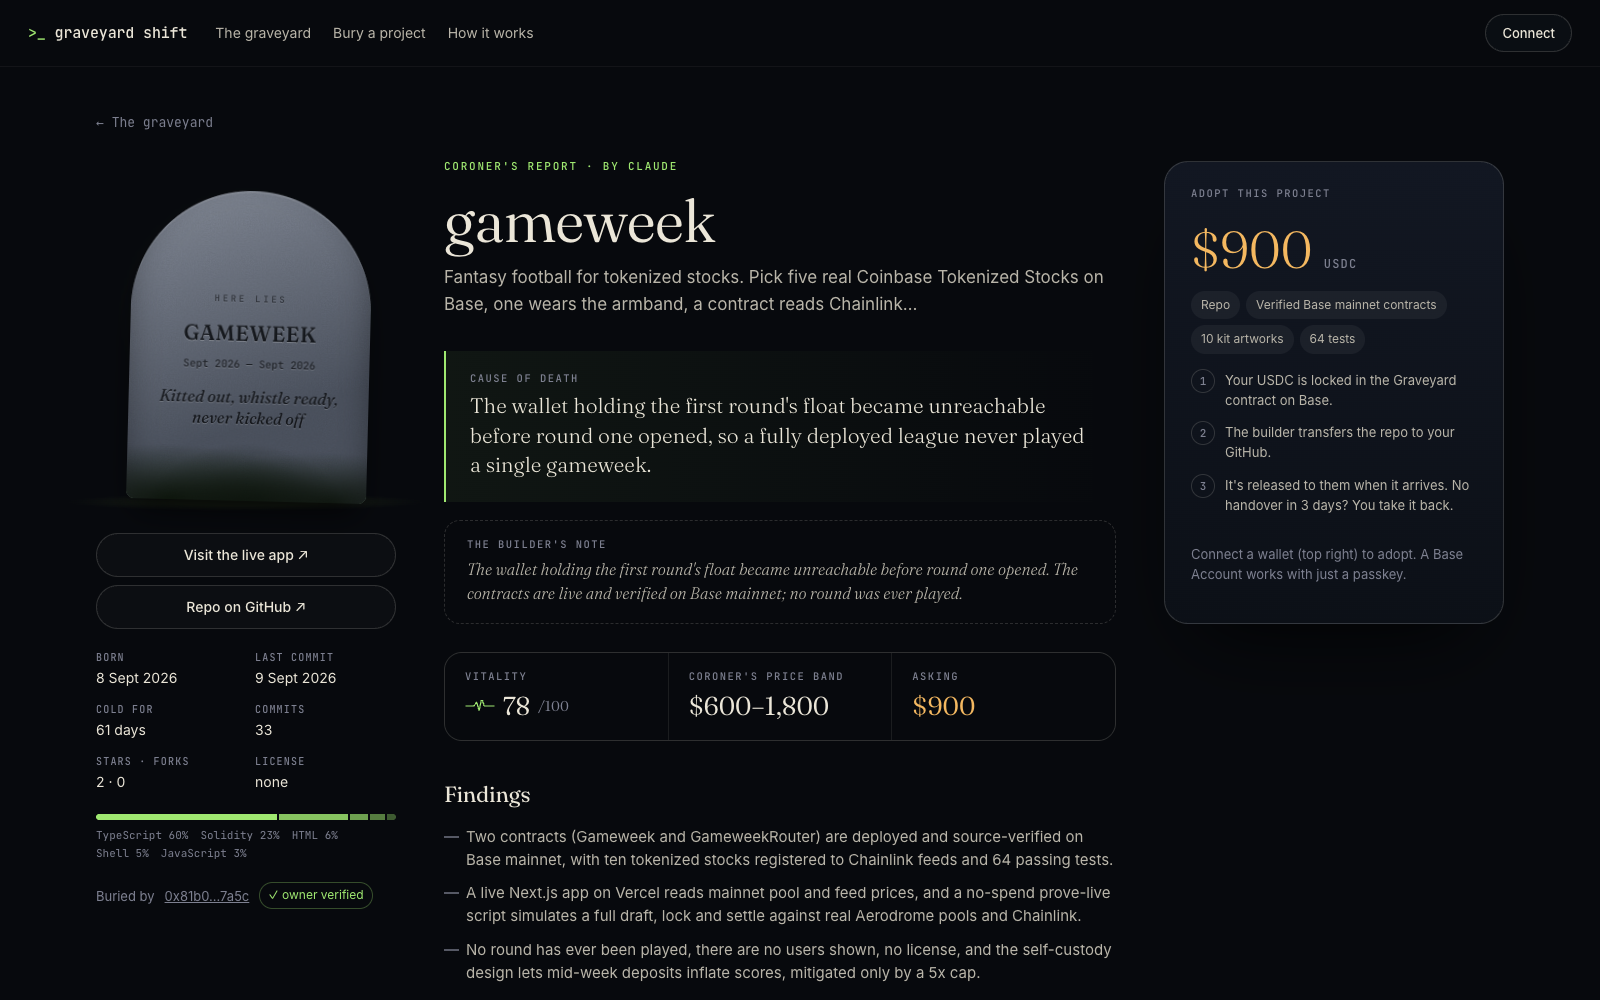
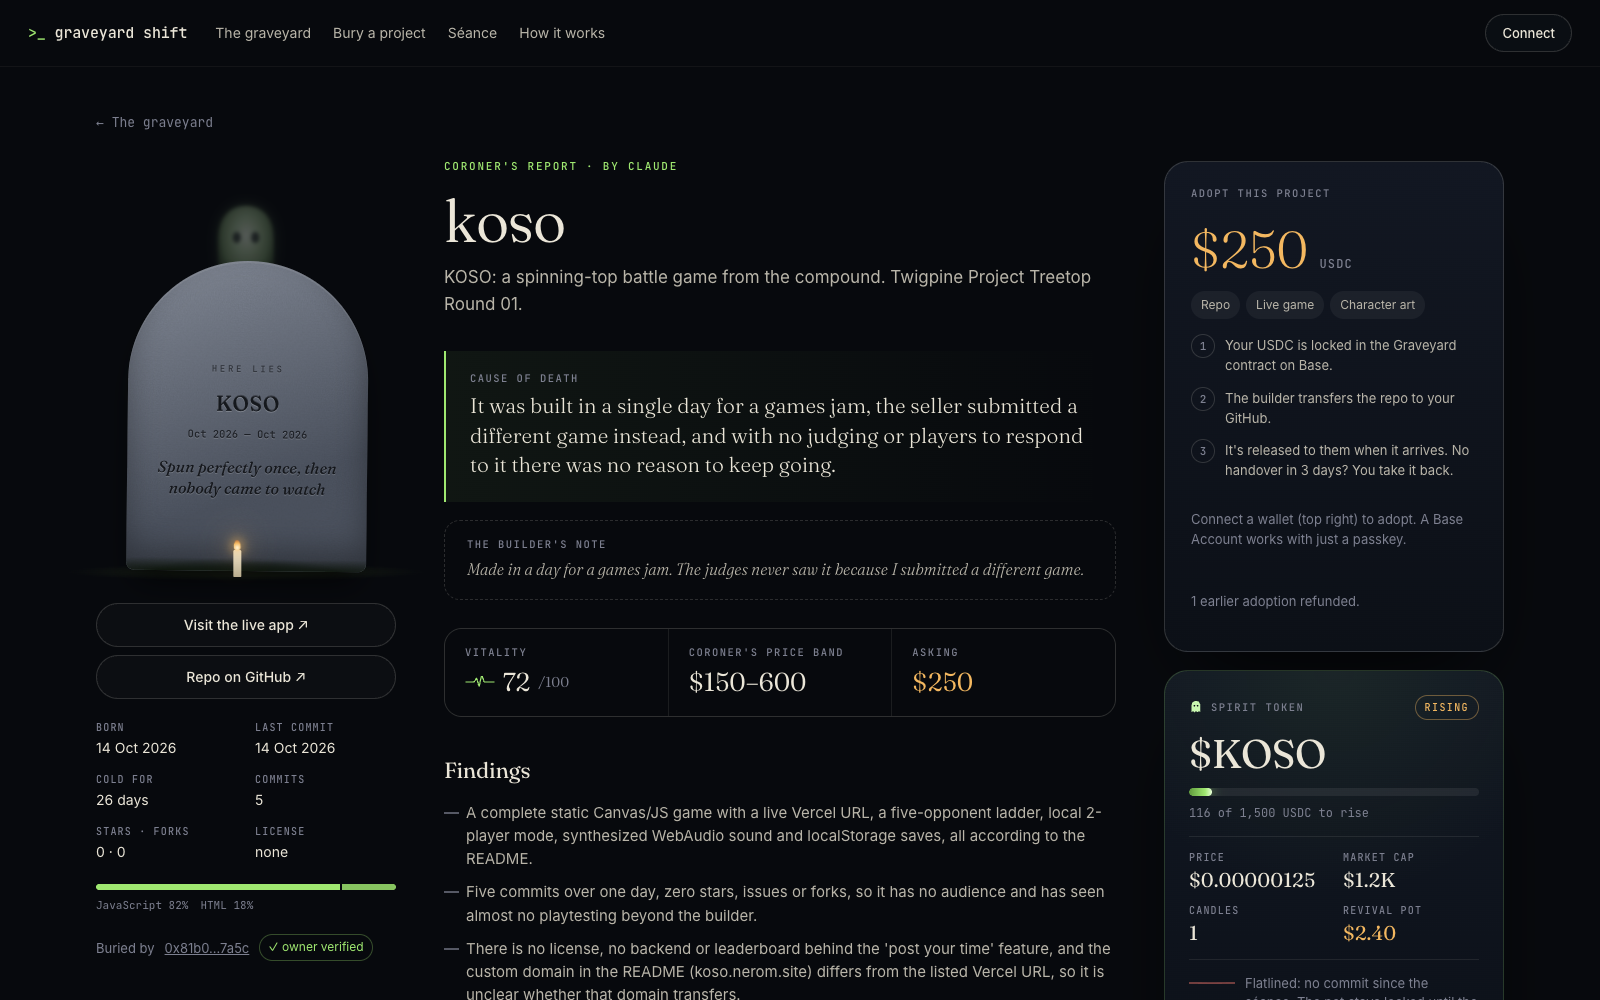
Séance docs, mobile overflow fixes, fresh screenshots

diff --git a/web/src/styles.css b/web/src/styles.css
@@ -304,7 +304,10 @@ em { font-style: italic; color: var(--moss); }
   .stat, .stat:first-child { padding: 20px; border-left: 0; border-top: 1px solid var(--line); }
   .plots, .how, .log, .page { padding-left: 20px; padding-right: 20px; }
   .how ol { grid-template-columns: 1fr; }
-  .plot-layout { grid-template-columns: 1fr; gap: 30px; }
+  .plot-layout { grid-template-columns: minmax(0, 1fr); gap: 30px; }
+  .plot-right, .plot-aside, .plot-left { min-width: 0; }
+  .wallet .bal { display: none; }
+  .seance-head h1 { font-size: 40px; }
   .plot-left { position: static; }
   .salvage { grid-template-columns: 1fr; }
   .vital { grid-template-columns: 1fr 1fr; }
@@ -412,3 +415,4 @@ em { font-style: italic; color: var(--moss); }
   .rules { grid-template-columns: 1fr; margin: 36px 0 46px; }
   .spirit-grid { grid-template-columns: 1fr; }
 }
+main { overflow-x: clip; }

diff --git a/README.md b/README.md
@@ -2,15 +2,21 @@
 
 **Every builder has a graveyard. Now it has a night shift.**
 
-Graveyard Shift is a marketplace for side projects their builders stopped shipping. You bury a project you've stopped
-working on. Someone who still believes in it adopts it: the repo, the live app, whatever else you include. Their USDC
-waits in an escrow contract on Base, and it reaches you when the repo lands in their GitHub account.
+Graveyard Shift is a marketplace and a launchpad for side projects their builders stopped shipping. You bury a project
+you've stopped working on. Someone who still believes in it adopts it: the repo, the live app, whatever else you include.
+Their USDC waits in an escrow contract on Base, and it reaches you when the repo lands in their GitHub account.
+
+Or you hold a **séance**: raise the dead project as a token on a bonding curve. Believers light candles (buy). The
+founder gets no tokens. Instead 2% of every trade fills a revival pot that the founder can claim only while the repo has
+a heartbeat, meaning a commit in the last 30 days, which our keeper reads from GitHub and writes on-chain. Founders get
+paid for shipping, not for launching.
 
 Live: **https://graveyard.nerom.site** · Built for Vibeathon 02 (Night Shift) on Vibestarter.
 
 Contracts on Base Sepolia (source verified on Sourcify):
 - Graveyard escrow: [`0x74d0C081C24A22e1170dd357a00a9dA25cD335d8`](https://sepolia.basescan.org/address/0x74d0C081C24A22e1170dd357a00a9dA25cD335d8)
 - gUSDC test token: [`0x56B5fA16b3f32DcaE2980e17fc967e163409cFca`](https://sepolia.basescan.org/address/0x56B5fA16b3f32DcaE2980e17fc967e163409cFca)
+- Séance launchpad: [`0x750d7855Cd4e59bb8909F43eC18AB7FcC13347FA`](https://sepolia.basescan.org/address/0x750d7855Cd4e59bb8909F43eC18AB7FcC13347FA)
 
 ## What to try
 
@@ -23,7 +29,10 @@ Contracts on Base Sepolia (source verified on Sourcify):
    three-step revival plan, who should adopt it, and a fair price band next to the asking price.
 3. **Bury a project.** Paste any public GitHub repo. Claude reads the repo facts, the README and the commit history, and
    writes the autopsy live, in about 10 seconds. Set your price and sign one message (no gas) to list it.
-4. **Adopt one.** Connect a wallet. A Base Account works with just a passkey, and approval plus adoption go through as
+4. **Light a candle.** Open the Séance and pick a raised spirit ($KOSO, $GWEEK…). Buy on the curve and a candle
+   appears at the foot of its headstone, one per holder. The ghost over the stone takes shape as the curve fills toward
+   1,500 USDC, when the project rises. The panel shows the revival pot and whether the repo has a heartbeat.
+5. **Adopt one.** Connect a wallet. A Base Account works with just a passkey, and approval plus adoption go through as
    one atomic bundle. Grab 1,000 test USDC from the built-in faucet, which also sends a sip of gas. Then lock the price
    on Base Sepolia and name the GitHub account the repo should go to.
 
@@ -48,9 +57,24 @@ buyer can confirm() any time · seller can refund() any time · buyer can refund
   the server re-runs the autopsy itself, so a seller can't hand-write their own report.
 - Owners can add a `.graveyard` file holding their wallet address to the repo to earn a verified badge.
 
+## How the séance works
+
+```
+founder signs "raise $KOSO"  ──▶  verifier relays launch()  ──▶  Spirit ERC20 + curve in the Séance contract
+believers buy()/sell() on a virtual constant-product curve (1,000 USDC × 1B tokens), USDC reserve backs every sell
+3% fee per trade: 2% → revival pot, 1% → treasury          reserve ≥ 1,500 USDC → Risen
+keeper sees a new commit on GitHub ──▶ pulse() ──▶ founder may claim() the pot for 30 days (only once risen)
+repo adopted through the escrow ──▶ setFounder(adopter): the pot follows the project
+```
+
+- `contracts/src/Seance.sol` holds the launchpad and the `Spirit` ERC20, which only the Séance can mint or burn. There
+  are 11 Foundry tests, including a fuzz test that the reserve always covers every sell.
+- Launches go through the verifier after a wallet signature from the plot's founder (the seller, or the adopter once
+  it's handed over), so only the right wallet can raise a project and the founder pays no gas.
+
 ## Stack
 
-- **Contracts:** Solidity + Foundry, deployed on Base Sepolia.
+- **Contracts:** Solidity + Foundry (22 tests), deployed on Base Sepolia.
 - **App:** React + Vite, wagmi/viem, and a Base Account connector (passkey smart wallet, EIP-5792 batched calls).
 - **Server:** plain Node: a JSON store on a Railway volume, viem for the keeper/verifier/faucet, the GitHub REST API,
   and the Anthropic SDK.

diff --git a/submission/SUBMISSION.md b/submission/SUBMISSION.md
@@ -6,24 +6,29 @@ Form: https://app.vibestarter.xyz/vibeathon/submit (closes 9 Nov 2026, 22:00 UTC
 Graveyard Shift
 
 **Tagline**
-Adopt abandoned side projects. USDC waits in escrow on Base until the repo lands in your GitHub.
+Adopt abandoned side projects, or raise them from the dead as tokens. Founders only get paid while they ship.
 
 **Live app URL**
 https://graveyard.nerom.site
 
 **What does it do, and what should judges try?**
-Every builder has a graveyard of side projects they stopped shipping. Graveyard Shift is a marketplace for them. A builder buries a project, Claude writes an honest autopsy of the repo, and someone who still believes in it adopts it. Their USDC sits in an escrow contract on Base and is released to the seller when the repo is transferred to the buyer's GitHub account. A keeper checks GitHub every 75 seconds and settles on its own.
+Every builder has a graveyard of side projects they stopped shipping. Graveyard Shift is a marketplace and a launchpad for them. A builder buries a project and Claude writes an honest autopsy of the repo. Then one of two things can happen.
+
+Adopt: someone who still believes in it locks USDC in an escrow contract on Base. It's released to the seller when the repo is transferred to the buyer's GitHub account. A keeper checks GitHub every 75 seconds and settles on its own.
+
+Séance: the founder raises the project as a token on a bonding curve. It's a fair launch, with no presale and no team tokens, and the USDC in the curve backs every sell. 2% of every trade fills a revival pot that the founder can claim only while the repo has a heartbeat, meaning a commit in the last 30 days, which the keeper reads from GitHub and writes on-chain. If the project is adopted, the founder seat and the pot move to the adopter. Launchpads usually pay founders for launching; this one pays them for shipping.
 
 Try this:
 1. Walk the graveyard. Every headstone is drawn from data. Moss grows with the days since the last commit. Stones crack and lean after 90 days. The glow is the coroner's vitality score. The tower has one lit window per buried project, and the watchman's lantern flares while a handover is in escrow.
 2. Open a plot to read the coroner's report: cause of death, findings, salvageable assets, a three-step revival plan, who should adopt it, and a fair price band.
 3. Bury any public GitHub repo. Claude reads it and writes the autopsy live in about 10 seconds. Listing takes a gasless wallet signature.
-4. Adopt one. Connect a Base Account (passkey only, no extension needed), take 1,000 test USDC plus gas from the built-in faucet, and lock the price on Base Sepolia. Approve and adopt go through as one atomic batch. Either side can refund, and the deal settles itself once GitHub shows the transfer.
+4. Open the Séance and light a candle on $KOSO or $GWEEK. Each holder adds a candle at the foot of the headstone, and the ghost above it takes shape as the curve fills toward 1,500 USDC.
+5. Adopt one. Connect a Base Account (passkey only, no extension needed), take 1,000 test USDC plus gas from the built-in faucet, and lock the price on Base Sepolia. Approve and adopt go through as one atomic batch. Either side can refund, and the deal settles itself once GitHub shows the transfer.
 
 **Built with**
-Claude Code built all of it from one conversation: Solidity escrow plus 11 Foundry tests, the Node server (keeper, verifier, faucet), and the React UI, plus the deploys. Claude Opus 5.5 runs inside the product as the coroner, with structured outputs. The rest of the stack is Base Sepolia, Base Account (EIP-5792 batched calls), wagmi/viem, Railway and Vercel.
+Claude Code built all of it from one conversation: the Solidity escrow and launchpad with 22 Foundry tests, the Node server (keeper, verifier, faucet), and the React UI, plus the deploys. Claude Opus 5.5 runs inside the product as the coroner, with structured outputs. The rest of the stack is Base Sepolia, Base Account (EIP-5792 batched calls), wagmi/viem, Railway and Vercel.
 
-**Contracts (Base Sepolia, Sourcify-verified)**: escrow 0x74d0C081C24A22e1170dd357a00a9dA25cD335d8 · gUSDC 0x56B5fA16b3f32DcaE2980e17fc967e163409cFca
+**Contracts (Base Sepolia, Sourcify-verified)**: escrow 0x74d0C081C24A22e1170dd357a00a9dA25cD335d8 · Séance 0x750d7855Cd4e59bb8909F43eC18AB7FcC13347FA · gUSDC 0x56B5fA16b3f32DcaE2980e17fc967e163409cFca
 
 **Screenshot**: submission/hero.png (1600×1000)
 **Repo**: https://github.com/neromtoobad/graveyard-shift (once pushed)
